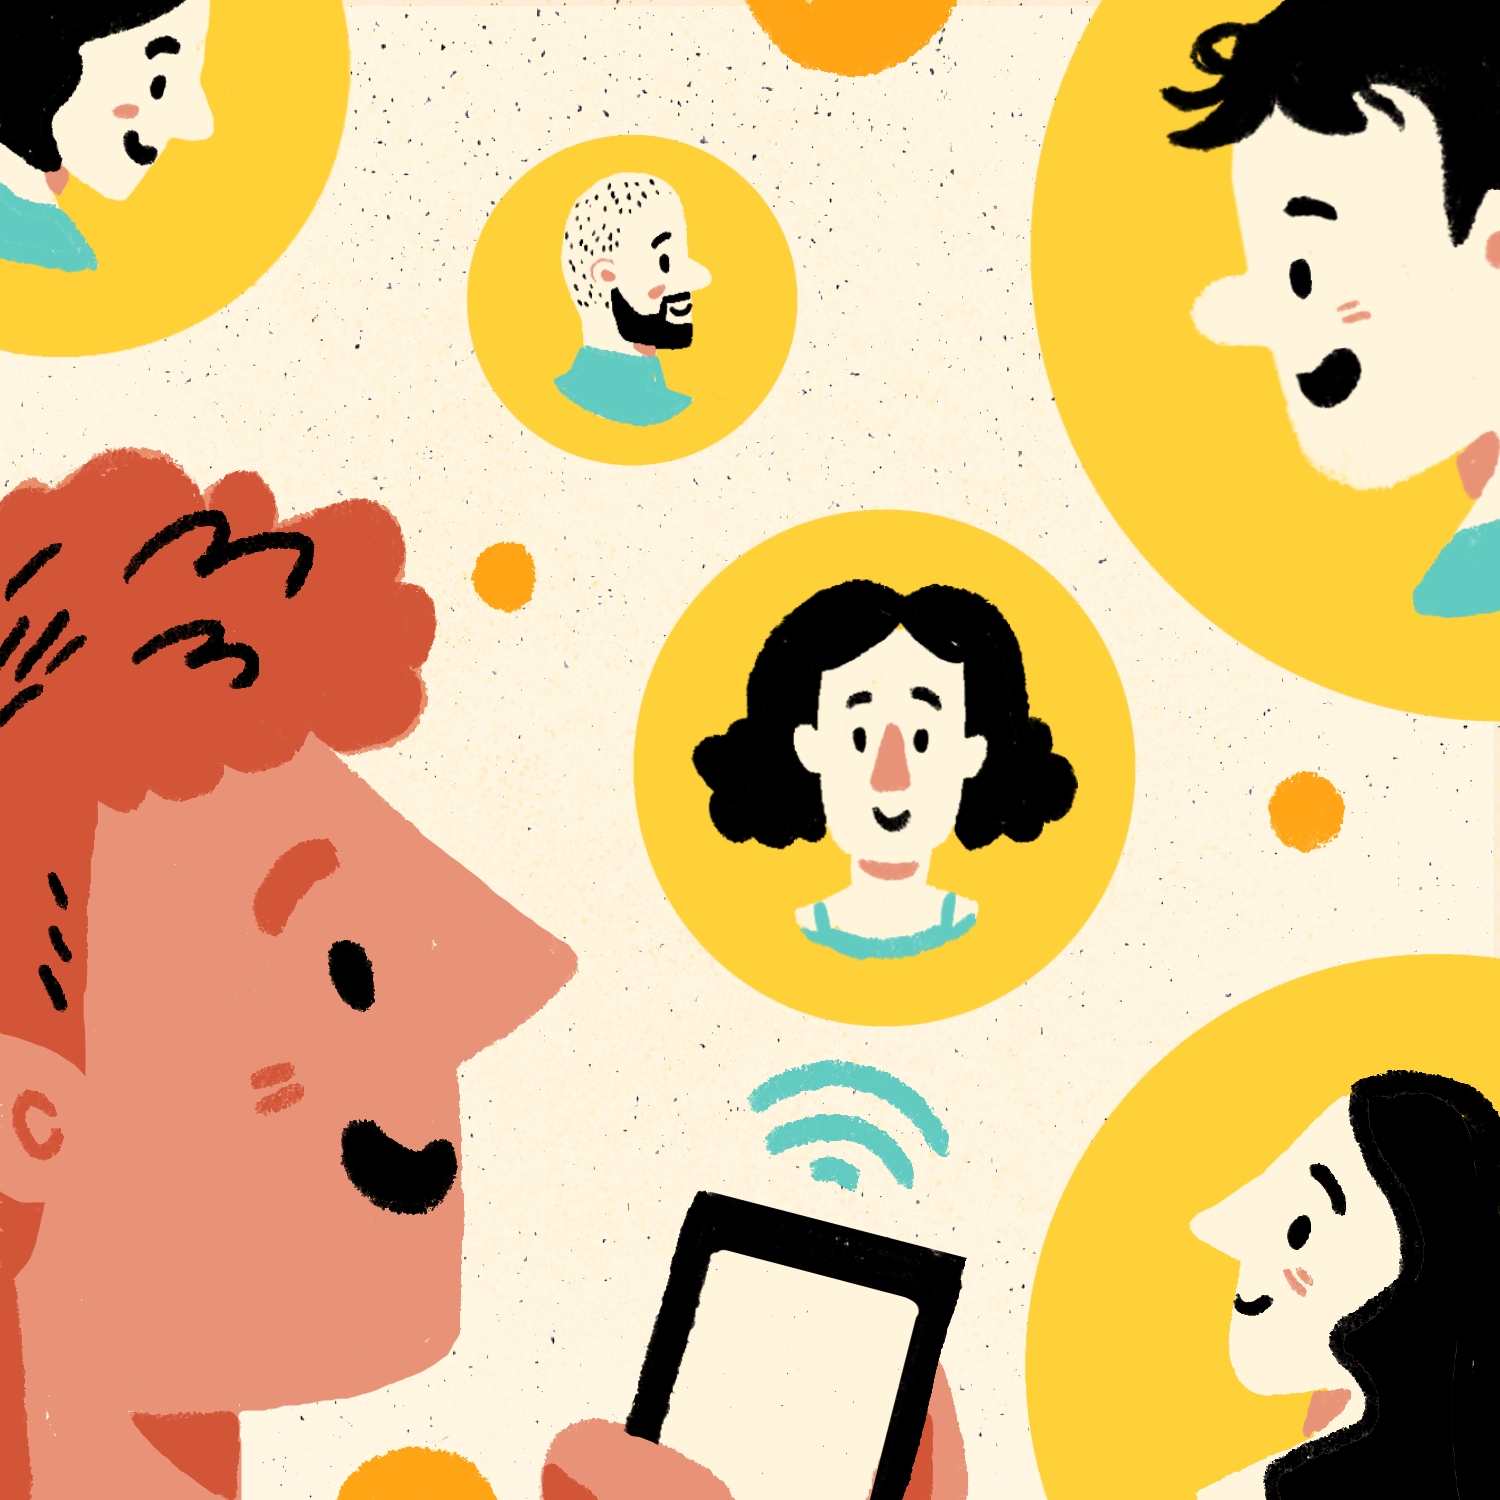
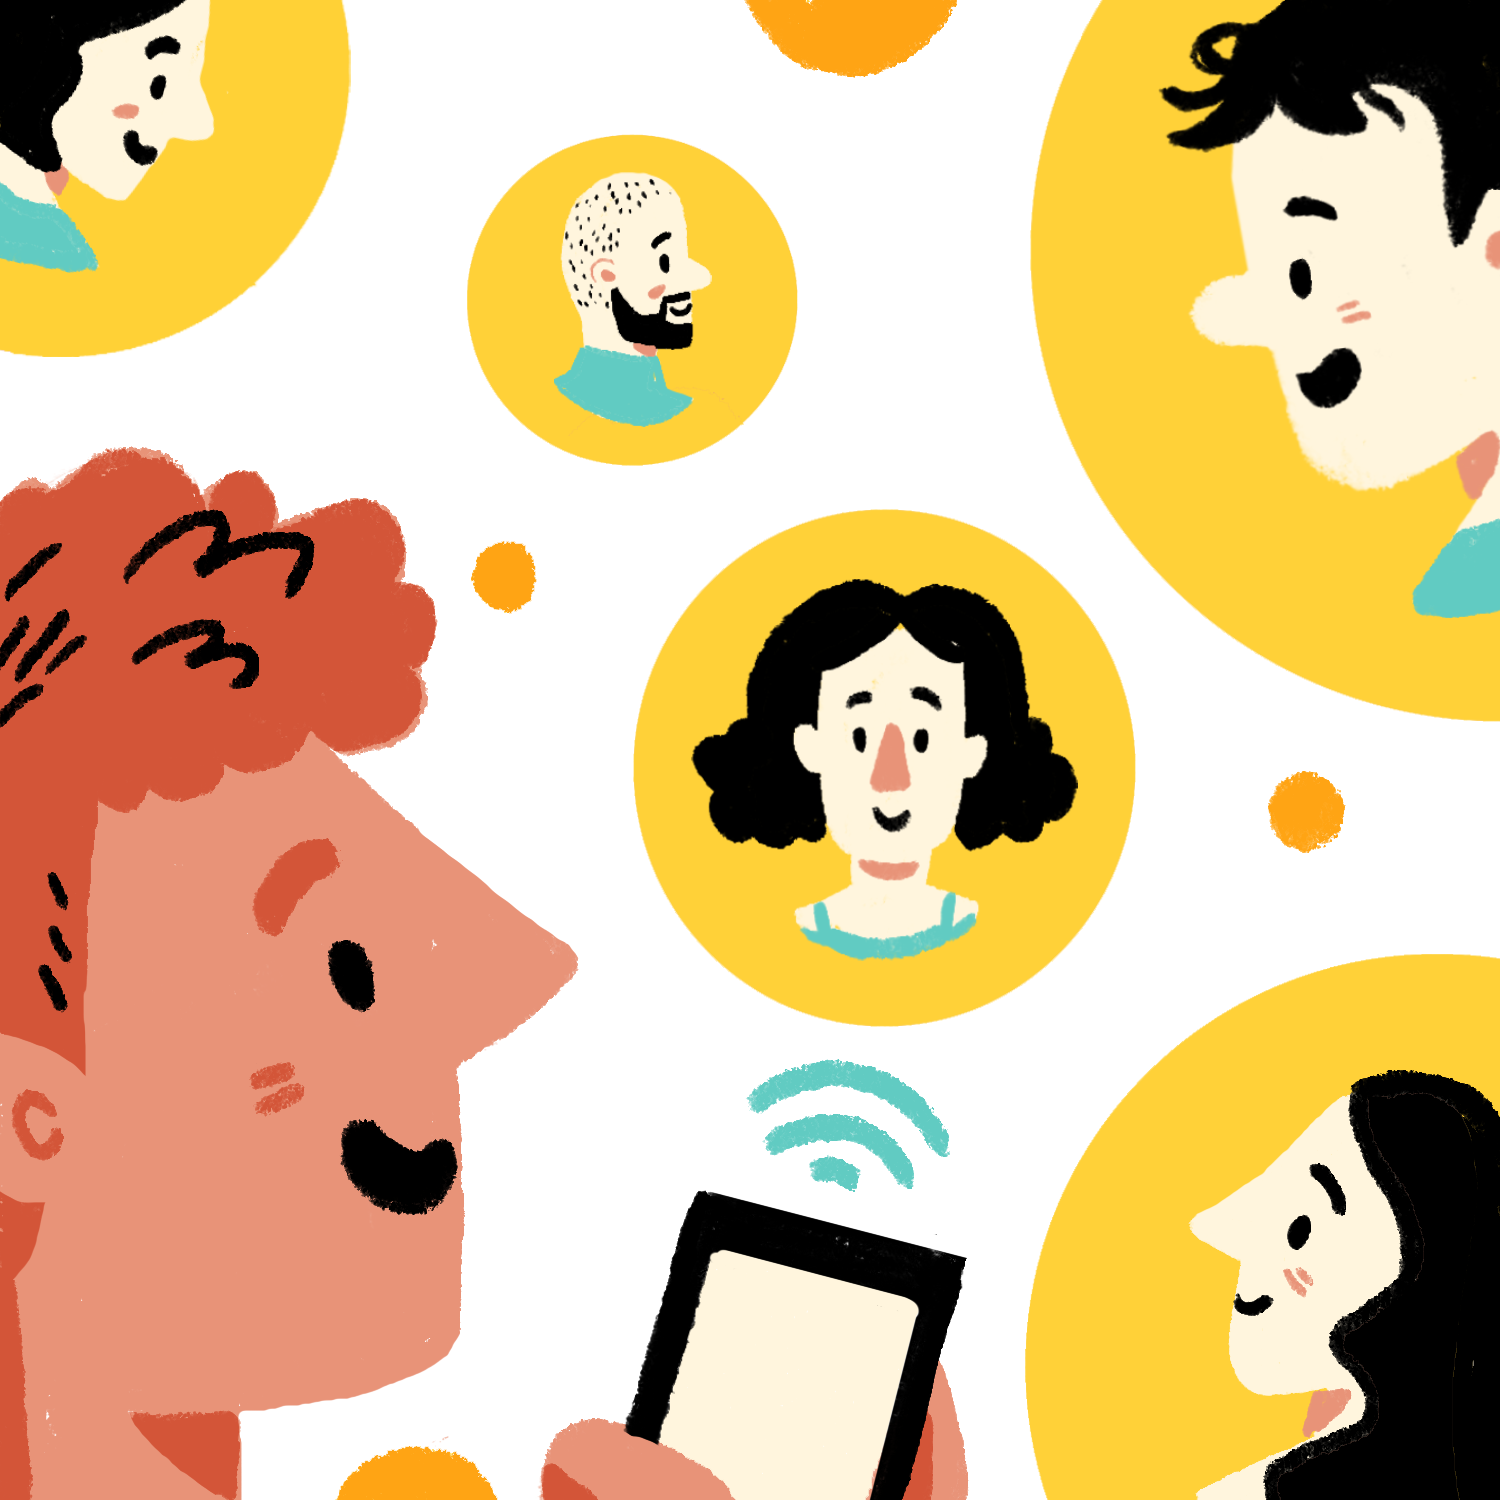
Changes to colors

diff --git a/src/views/Home.vue b/src/views/Home.vue
@@ -1,42 +1,44 @@
 <template>
   <div>
     <Header />
-    <div class="container mx-auto flex min-h-screen">
-      <div class="flex">
-        <div class="inline-flex flex-row flex-no-wrap items-center">
-          <div class="w-1/2 px-12 flex flex-col items-start">
-          <img alt="Poketto text" src="@/assets/svg/poketto-text.svg">
-          <h2 class="mt-8 text-3xl leading-tight">A payment wallet that you can <br> actually show your parents </h2>
-          <div class="mt-4 text-lg leading-snug">The simplest, most secure and near instant way <br> to pay friends and your every day items.</div>
-          <a
-            class="mt-8"
-            href="https://poketto.cash"
-            target="_blank"
-            rel="noopener noreferrer"
-            title="App store link"
-          >
-            <img
-              alt="App store badge"
-              class="w-40 cursor-pointer"
-              src="@/assets/svg/app-store.svg"
-              >
-          </a>
-        </div>
-        <div class="w-1/2 px-16">
-          <img src="@/assets/img/intro/iphone@2x.png" alt="" />
-        </div>
+    <div class="background--alt">
+      <div class="container mx-auto flex min-h-screen">
+        <div class="flex">
+          <div class="inline-flex flex-row flex-no-wrap items-center">
+            <div class="w-1/2 px-12 flex flex-col items-start">
+            <img alt="Poketto text" src="@/assets/svg/poketto-text.svg">
+            <h2 class="mt-8 text-3xl leading-tight">A payment wallet that you can <br> actually show your parents </h2>
+            <div class="mt-4 text-lg leading-snug">The simplest, most secure and near instant way <br> to pay friends and your every day items.</div>
+            <a
+              class="mt-8"
+              href="https://poketto.cash"
+              target="_blank"
+              rel="noopener noreferrer"
+              title="App store link"
+            >
+              <img
+                alt="App store badge"
+                class="w-40 cursor-pointer"
+                src="@/assets/svg/app-store.svg"
+                >
+            </a>
+          </div>
+          <div class="w-1/2 px-16">
+            <img src="@/assets/img/intro/iphone@2x.png" alt="" />
+          </div>
+          </div>
         </div>
       </div>
     </div>
-    <div class="flex bg-gray-100">
+    <div class="flex">
       <div class="container mx-auto flex flex-col items-center mt-32 mb-32">
         <div class="w-5/6">
-          <img src="@/assets/img/illustrations/everyone.png" alt="" />
+          <img src="@/assets/img/illustrations/everyone.png" />
         </div>
         <h1 class="mt-8 text-5xl">A wallet for everyone, everywhere</h1>
       </div>
     </div>
-    <div class="flex">
+    <div class="flex background--alt">
       <div class="mx-auto flex flex-col flex-no-wrap items-center mt-32 mb-32">
         <h1 class="text-5xl">Introducing your new wallet</h1>
         <p class="mt-2 text-center text-2xl leading-snug">You shoudldn't have to read a manual to start using a payment wallet, <br> it should be as easy and simple as any other app you used before</p>
@@ -65,32 +67,56 @@
         </div>
       </div>
     </div>
-    <div class="flex bg-gray-100">
-      <div class="container mx-auto flex flex-col items-center mt-32 mb-32">
+    <div class="flex">
+      <div class="container mx-auto flex flex-col items-center mt-32 mb-40">
         <h1 class="text-5xl">What you should know</h1>
         <p class="mt-2 text-center text-2xl leading-snug">yadadadadayadadadadayadadadadayadadadadayadadadada
           yadadadadayadadadadayadadadadayadadadadayadadadada</p>
-        <div class="mt-12 flex flex-col">
-          <div class="max-w-xs">
-            <img src="@/assets/img/illustrations/instant_payments.png" alt="" />
+        <div class="flex flex-col items-center">
+          <div class="mt-32 flex flex-row items-center">
+            <div class="flex flex-col max-w-sm pr-12">
+              <h2>Near instant payments</h2>
+              <p>The simplest, most secure and near instant way to pay friends and your every day items.</p>
+            </div>
+            <div class="w-64 background--illustration">
+              <img src="@/assets/img/illustrations/instant_payments.png" alt="" />
+            </div>
           </div>
-          <div class="max-w-xs">
-            <img src="@/assets/img/illustrations/wallet_phone.png" alt="" />
+          <div class="mt-32 flex flex-row items-center">
+            <div class="flex flex-col max-w-sm pr-12">
+              <h2>Wallet is on your phone</h2>
+              <p>The simplest, most secure and near instant way to pay friends and your every day items.</p>
+            </div>
+            <div class="w-64 background--illustration">
+              <img src="@/assets/img/illustrations/wallet_phone.png" alt="" />
+            </div>
           </div>
-          <div class="max-w-xs">
-            <img src="@/assets/img/illustrations/addresses_contacts.png" alt="" />
+          <div class="mt-32 flex flex-row items-center">
+            <div class="flex flex-col max-w-sm pr-12">
+              <h2>Your addresses as contacts</h2>
+              <p>The simplest, most secure and near instant way to pay friends and your every day items.</p>
+            </div>
+            <div class="w-64 background--illustration">
+              <img src="@/assets/img/illustrations/addresses_contacts.png" alt="" />
+            </div>
           </div>
-          <div class="max-w-xs">
-            <img src="@/assets/img/illustrations/open_source.png" alt="" />
+          <div class="mt-32 flex flex-row items-center">
+            <div class="flex flex-col max-w-sm pr-12">
+              <h2>Completly open source</h2>
+              <p>The simplest, most secure and near instant way to pay friends and your every day items.</p>
+            </div>
+            <div class="w-64 background--illustration">
+              <img src="@/assets/img/illustrations/open_source.png" alt="" />
+            </div>
           </div>
         </div>
       </div>
     </div>
-    <div class="flex">
+    <div class="flex background--alt">
       <div class="container mx-auto flex flex-col items-center mt-32 mb-32">
         <div class="mt-16 inline-flex flex-row flex-no-wrap items-center">
           <div class="w-1/2 px-12 flex flex-col items-start">
-            <h1 class="">Poketto</h1>
+            <h1 class="">Poketto uses xDai</h1>
             <h2 class="">A payment wallet that your parents can easily use</h2>
             <div class="">The simplest, most secure and near instant way to pay friends and your every day items.</div>
             <button class="bg-red-600">lol</button>
@@ -101,9 +127,9 @@
         </div>
       </div>
     </div>
-    <div class="flex bg-gray-100">
+    <div class="flex">
       <div class="container mx-auto flex flex-col items-center mt-32 mb-32">
-        <div class="w-5/6">
+        <div class="w-5/6 background--illustration">
           <img src="@/assets/img/illustrations/done_sunday.png" alt="" />
         </div>
         <h1 class="mt-8 text-5xl">Enabling all to enjoy</h1>

diff --git a/src/components/Footer.vue b/src/components/Footer.vue
@@ -1,6 +1,6 @@
 <template>
-  <div class="pt-24 pb-16 bg-white p-8">
-    <div class="container mx-auto text-left opacity-75 text-sm lg:px-4">
+  <div class="pt-24 pb-16 bg-white p-8 background--alt">
+    <div class="container mx-auto text-left opacity-100 text-sm lg:px-4">
       <div
         class="flex flex-col justify-center items-start content-start md:flex-row mb-4"
       >
@@ -19,7 +19,7 @@
               >
           </a>
           <p
-            class="mt-32 text-left text-grey text-sm opacity-75 hidden md:block"
+            class="mt-32 text-left text-grey text-sm opacity-50 hidden md:block"
           >
             © Poketto Cash
           </p>
@@ -85,7 +85,7 @@
           <transition appear name="fade">
             <div class="mt-12 md:mt-4">
               <a
-                class="opacity-75 hover:fill-purple inline-block w-8 mr-4"
+                class="opacity-100 inline-block w-8 mr-4"
                 href="https://github.com/pokettocash"
                 target="_blank"
                 rel="noopener noreferrer"
@@ -98,7 +98,7 @@
                   >
               </a>
               <a
-                class="opacity-75 hover:fill-purple inline-block w-8 mr-4"
+                class="opacity-100 inline-block w-8 mr-4"
                 href="https://twitter.com/pokettocash"
                 target="_blank"
                 rel="noopener noreferrer"
@@ -111,7 +111,7 @@
                 />
               </a>
               <a
-              class="opacity-75 hover:fill-purple inline-block w-8 mr-4"
+              class="opacity-100 inline-block w-8 mr-4"
               href="https://discord.gg/kMTUpME"
               target="_blank"
               rel="noopener noreferrer"
@@ -123,7 +123,7 @@
                 src="@/assets/svg/logo-discord.svg">
               </a>
               <a
-                class="opacity-75 hover:fill-purple inline-block w-8 mr-4"
+                class="opacity-100 inline-block w-8 mr-4"
                 href="https://www.producthunt.com/"
                 target="_blank"
                 rel="noopener noreferrer"

diff --git a/src/components/Header.vue b/src/components/Header.vue
@@ -1,22 +1,24 @@
 <template>
-  <nav class="container mx-auto flex items-center justify-between flex-wrap pt-8 px-12">
-    <div class="flex items-center flex-shrink-0 text-black mr-6">
-      <img class="w-8" src="@/assets/svg/poketto-icon.svg" alt="" />
-    </div>
-    <div class="hidden lg:block lg:inline-flex lg:items-center lg:w-auto">
-      <div class="text-sm lg:flex-grow">
-        <a class="block mt-4 lg:inline-block lg:mt-0 text-black hover:text-white mr-4">
-          Docs
-        </a>
-        <a class="block mt-4 lg:inline-block lg:mt-0 text-black hover:text-white mr-4">
-          Examples
-        </a>
-        <a class="block mt-4 lg:inline-block lg:mt-0 text-black hover:text-black">
-          Blog
-        </a>
+  <div class="background--alt">
+    <nav class="container mx-auto flex items-center justify-between flex-wrap pt-8 px-12">
+      <div class="flex items-center flex-shrink-0 text-black mr-6">
+        <img class="w-8" src="@/assets/svg/poketto-icon.svg" alt="" />
       </div>
-    </div>
-  </nav>
+      <div class="hidden lg:block lg:inline-flex lg:items-center lg:w-auto">
+        <div class="text-sm lg:flex-grow">
+          <a class="block mt-4 lg:inline-block lg:mt-0 text-black hover:text-white mr-4">
+            Docs
+          </a>
+          <a class="block mt-4 lg:inline-block lg:mt-0 text-black hover:text-white mr-4">
+            Examples
+          </a>
+          <a class="block mt-4 lg:inline-block lg:mt-0 text-black hover:text-black">
+            Blog
+          </a>
+        </div>
+      </div>
+    </nav>
+  </div>
 </template>
 
 <script>

diff --git a/src/assets/css/tailwind.css b/src/assets/css/tailwind.css
@@ -5,6 +5,16 @@
 
 @import "tailwindcss/utilities";
 
+.background {
+  background-color: #FFEEE9;
+}
+
+.background--alt {
+  background: linear-gradient(to bottom left, rgba(240,170,139,0.2), rgba(255,208,52,0));
+  background-repeat: no-repeat;
+  background-attachment: fixed;
+}
+
 .background--illustration {
-  background-color: #FFF4DE;
+  background-color: #FFF5DE;
 }
